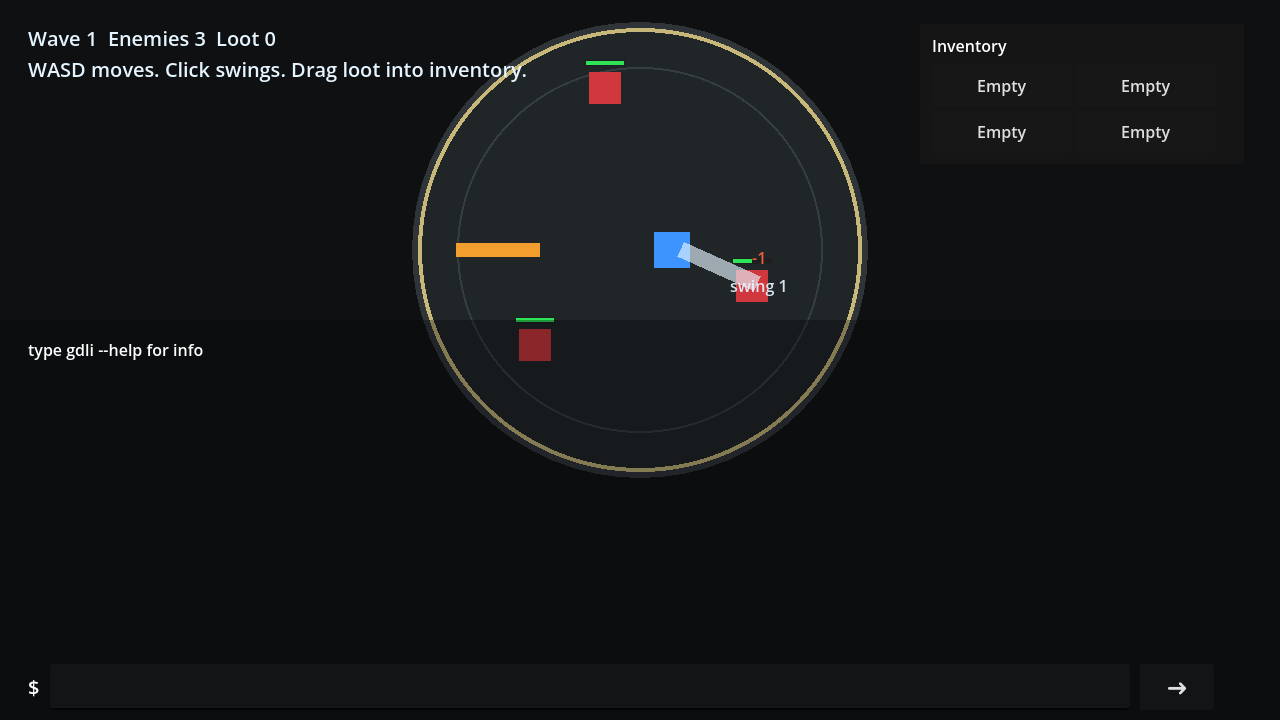
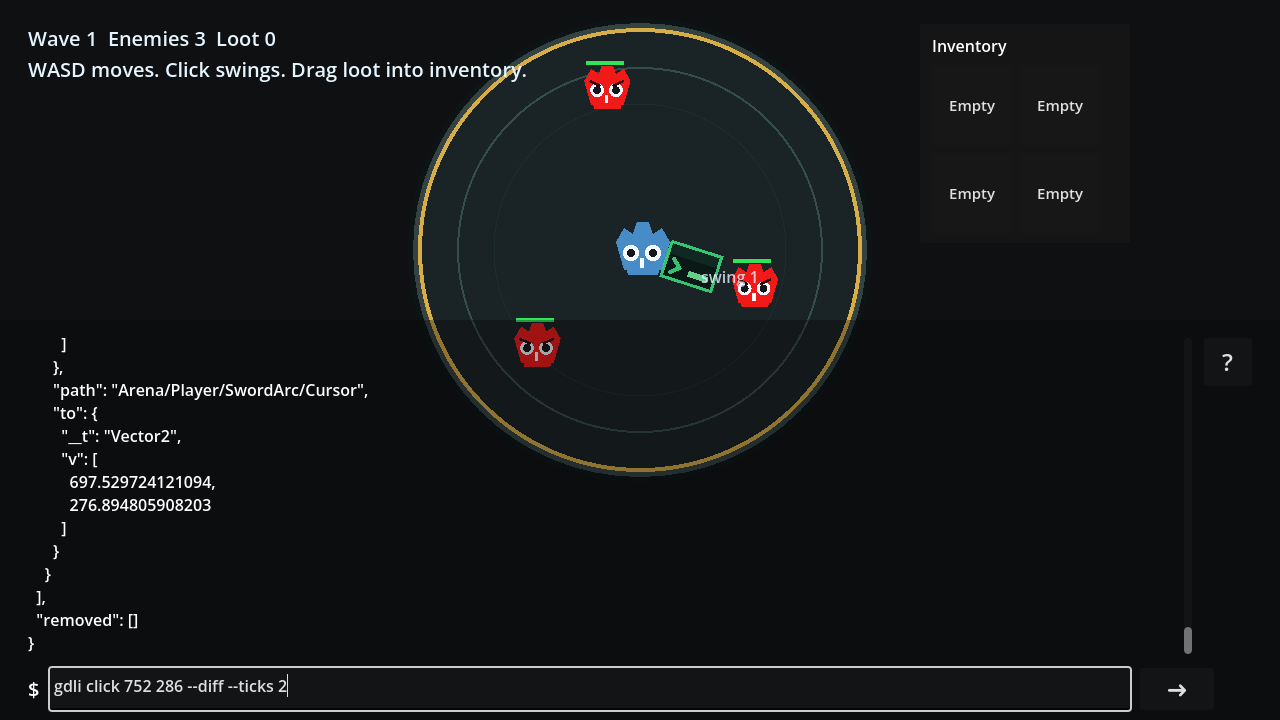
Updated readme with better demo screenshots

diff --git a/README.md b/README.md
@@ -26,6 +26,8 @@ gdli kill                                     # stop everything (explicit: --bot
 ```
 (`gdli` after `npm i -g` / `npm link`; otherwise `node addons/godot_agent_cli/cli/bin/gdli.js <verb>`.)
 
+![gdli logo](addons/gdli_plugin_example/docs/assets/gdli-logo.png)
+
 The bundled example plugin includes a demo scene at
 `res://addons/gdli_plugin_example/demo/main.tscn`: a small 2D arena game with a transparent in-game
 terminal overlay. WASD moves the player inside the ring, clicks swing a sword toward the pointer,
@@ -46,10 +48,14 @@ gdli gdli_plugin example setup --autoplay --record --record-seconds 45 --record-
 low-framerate scaled frames from the game viewport and encodes them with ffmpeg, defaulting to
 `res://addons/gdli_plugin_example/docs/assets/demo-autoplay.webm`.
 
-<video src="addons/gdli_plugin_example/docs/assets/demo-autoplay.webm" controls muted loop width="640"></video>
+![gdli demo console](addons/gdli_plugin_example/docs/assets/demo-console.png)
 
-The walkthrough covers the terminal, click-to-attack proof, loot drops, and dragging loot into an
-inventory slot with `--mark` / `--diff`.
+![gdli click proof](addons/gdli_plugin_example/docs/assets/demo-after-click.png)
+
+![gdli inventory proof](addons/gdli_plugin_example/docs/assets/demo-diff-workflow.png)
+
+The walkthrough covers the terminal, click-to-attack proof, loot drops, and inventory changes with
+the corresponding gdli command visible in the entry bar.
 
 Reproduce the demo proof flow:
 

diff --git a/addons/godot_agent_cli/cli/README.md b/addons/godot_agent_cli/cli/README.md
@@ -26,6 +26,8 @@ gdli kill                                     # stop everything (explicit: --bot
 ```
 (`gdli` after `npm i -g` / `npm link`; otherwise `node addons/godot_agent_cli/cli/bin/gdli.js <verb>`.)
 
+![gdli logo](../../gdli_plugin_example/docs/assets/gdli-logo.png)
+
 The bundled example plugin includes a demo scene at
 `res://addons/gdli_plugin_example/demo/main.tscn`: a small 2D arena game with a transparent in-game
 terminal overlay. WASD moves the player inside the ring, clicks swing a sword toward the pointer,
@@ -46,10 +48,14 @@ gdli gdli_plugin example setup --autoplay --record --record-seconds 45 --record-
 low-framerate scaled frames from the game viewport and encodes them with ffmpeg, defaulting to
 `res://addons/gdli_plugin_example/docs/assets/demo-autoplay.webm`.
 
-<video src="../../gdli_plugin_example/docs/assets/demo-autoplay.webm" controls muted loop width="640"></video>
+![gdli demo console](../../gdli_plugin_example/docs/assets/demo-console.png)
 
-The walkthrough covers the terminal, click-to-attack proof, loot drops, and dragging loot into an
-inventory slot with `--mark` / `--diff`.
+![gdli click proof](../../gdli_plugin_example/docs/assets/demo-after-click.png)
+
+![gdli inventory proof](../../gdli_plugin_example/docs/assets/demo-diff-workflow.png)
+
+The walkthrough covers the terminal, click-to-attack proof, loot drops, and inventory changes with
+the corresponding gdli command visible in the entry bar.
 
 Reproduce the demo proof flow:
 